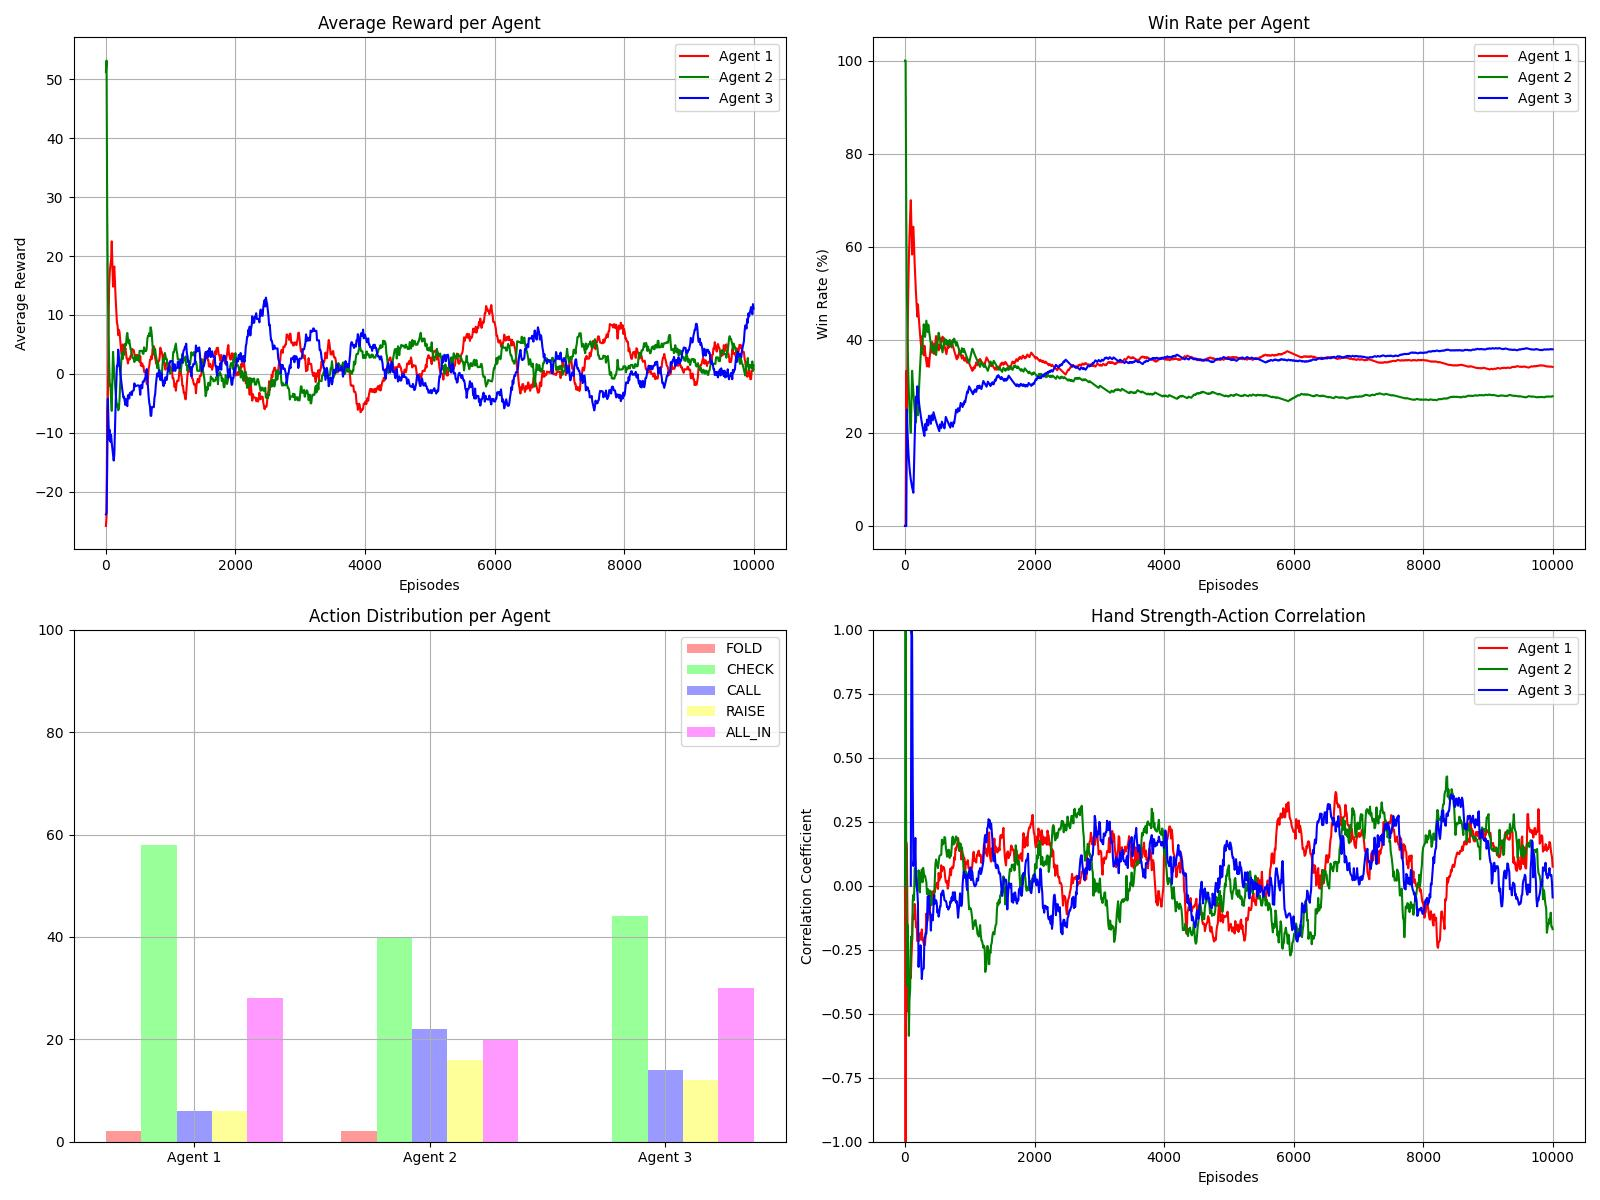
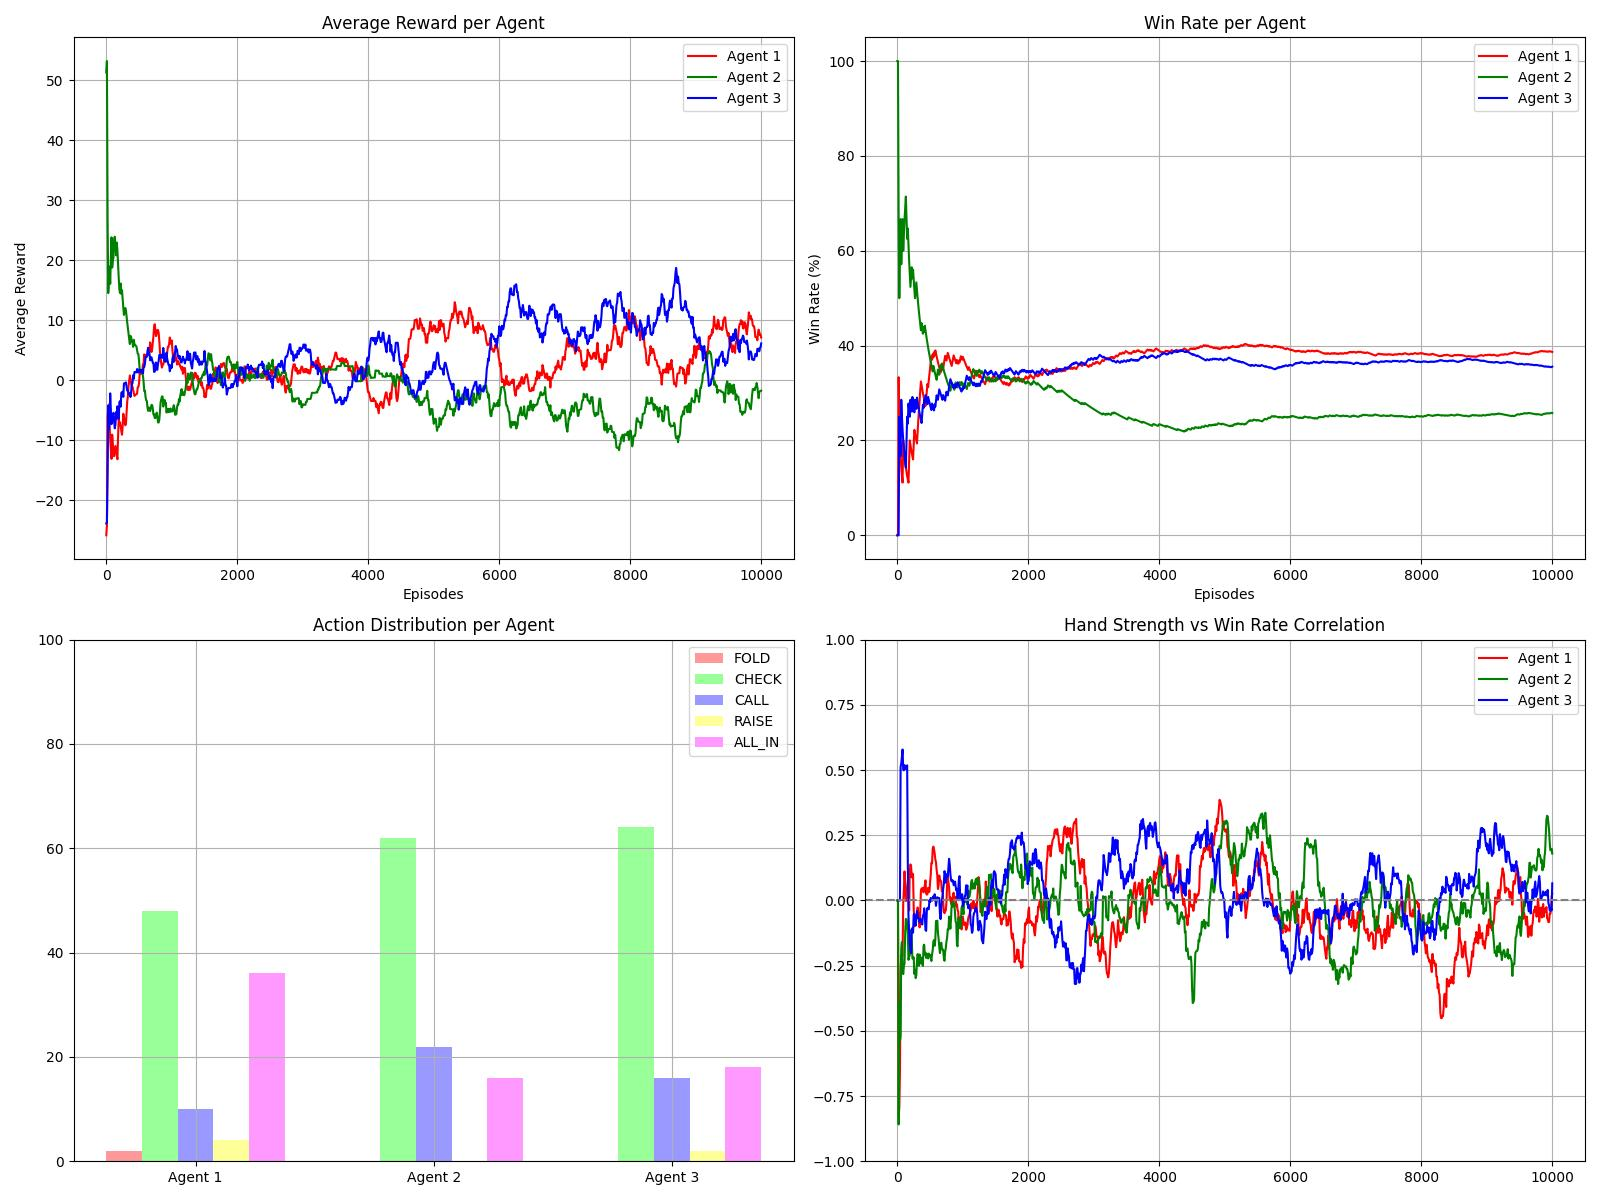
Updated correlation graph, now correlating hand Strength and win Rate, reworked the reward system by dealing with terminal state rewarding

diff --git a/visualization.py b/visualization.py
@@ -14,7 +14,7 @@ class TrainingVisualizer:
         self.ax1.set_title('Average Reward per Agent')
         self.ax2.set_title('Win Rate per Agent')
         self.ax3.set_title('Action Distribution per Agent')
-        self.ax4.set_title('Hand Strength Analysis')
+        self.ax4.set_title('Hand Strength vs Win Rate Correlation')
         
         # Initialize data
         self.window_size = 50
@@ -23,7 +23,7 @@ class TrainingVisualizer:
         self.action_data = {f"Agent {i+1}": {
             'FOLD': [], 'CHECK': [], 'CALL': [], 'RAISE': [], 'ALL_IN': []
         } for i in range(3)}
-        self.hand_strength_data = {f"Agent {i+1}": {'strength': [], 'action': []} for i in range(3)}
+        self.hand_strength_data = {f"Agent {i+1}": {'strength': [], 'win': []} for i in range(3)}
         self.episodes = []
         
         # Colors for agents and actions
@@ -43,8 +43,8 @@ class TrainingVisualizer:
         self.ax2.set_ylabel('Win Rate (%)')
         self.ax3.set_xlabel('Episodes')
         self.ax3.set_ylabel('Action Distribution (%)')
-        self.ax4.set_xlabel('Hand Strength')
-        self.ax4.set_ylabel('Action Tendency')
+        self.ax4.set_xlabel('Episodes')
+        self.ax4.set_ylabel('Win Rate Correlation')
         
         # Add grids
         for ax in [self.ax1, self.ax2, self.ax3, self.ax4]:
@@ -74,10 +74,10 @@ class TrainingVisualizer:
         for act in self.action_data[agent_name].keys():
             self.action_data[agent_name][act].append(1 if act == action_name else 0)
 
-    def update_hand_strength_data(self, agent_name, strength, action):
-        """Update hand strength and action data"""
+    def update_hand_strength_data(self, agent_name, strength, win_status):
+        """Update hand strength and win data"""
         self.hand_strength_data[agent_name]['strength'].append(strength)
-        self.hand_strength_data[agent_name]['action'].append(action.name)
+        self.hand_strength_data[agent_name]['win'].append(1 if win_status else 0)
 
     def plot_action_distribution(self):
         """Plot action distribution for each agent"""
@@ -112,66 +112,66 @@ class TrainingVisualizer:
         self.ax3.set_ylim(0, 100)
 
     def plot_hand_strength_analysis(self):
-        """Plot hand strength correlation with actions"""
+        """Plot hand strength correlation with wins"""
         self.ax4.clear()
-        action_mapping = {
-            'FOLD': 0,
-            'CHECK': 1,
-            'CALL': 2,
-            'RAISE': 3,
-            'ALL_IN': 4
-        }
+        self.ax4.set_title('Hand Strength vs Win Rate Correlation')
         
-        # Use the same colors as defined in __init__
         for i, (agent_name, color) in enumerate(zip(self.hand_strength_data.keys(), self.colors)):
             strengths = self.hand_strength_data[agent_name]['strength']
-            actions = [action_mapping[a] for a in self.hand_strength_data[agent_name]['action']]
+            wins = self.hand_strength_data[agent_name]['win']
             
-            if len(strengths) > 0 and len(actions) > 0:
-                # Calculate rolling correlation with error handling
+            if len(strengths) > 0 and len(wins) > 0:
                 correlations = []
                 for j in range(len(strengths)):
                     start = max(0, j - self.window_size)
                     end = j + 1
                     
-                    # Ensure we have enough data points and variance
                     window_strengths = strengths[start:end]
-                    window_actions = actions[start:end]
+                    window_wins = wins[start:end]
                     
-                    if len(window_strengths) > 1 and len(set(window_strengths)) > 1 and len(set(window_actions)) > 1:
+                    # Check if we have enough variance in both arrays
+                    if (len(window_strengths) > 1 and 
+                        len(set(window_strengths)) > 1 and 
+                        len(set(window_wins)) > 1):
                         try:
-                            corr = np.corrcoef(window_strengths, window_actions)[0,1]
-                            correlations.append(corr if not np.isnan(corr) else 0)
+                            # Suppress numpy warnings during correlation calculation
+                            with np.errstate(divide='ignore', invalid='ignore'):
+                                corr = np.corrcoef(window_strengths, window_wins)[0,1]
+                            # Check if correlation is valid
+                            if corr is not None and not np.isnan(corr):
+                                correlations.append(corr)
+                            else:
+                                correlations.append(0)
                         except Exception:
                             correlations.append(0)
                     else:
                         correlations.append(0)
                 
-                # Only plot if we have valid correlations
                 if correlations:
-                    # Use consistent color from self.colors
                     self.ax4.plot(self.episodes[-len(correlations):], correlations, 
-                                label=agent_name, color=self.colors[i])
+                                label=agent_name, color=color)
         
-        self.ax4.set_title('Hand Strength-Action Correlation')
-        self.ax4.set_xlabel('Episodes')
-        self.ax4.set_ylabel('Correlation Coefficient')
         self.ax4.legend()
         self.ax4.grid(True)
         self.ax4.set_ylim(-1, 1)
+        self.ax4.axhline(0, color='gray', linestyle='--')
 
     def update_plots(self, episode, rewards, wins, actions, hand_strengths):
         """Update all plots with new data"""
-        # Update data
         self.episodes.append(episode)
         
         # Update rewards and wins
         for i, agent_name in enumerate(self.rewards_data.keys()):
             self.rewards_data[agent_name].append(rewards[i])
             self.wins_data[agent_name].append(wins[i])
+            
+            # Update action distribution if actions are provided
             if actions and i < len(actions):
                 self.update_action_distribution(agent_name, actions[i])
-                self.update_hand_strength_data(agent_name, hand_strengths[i], actions[i])
+            
+            # Update hand strength data with win status
+            if hand_strengths and i < len(hand_strengths):
+                self.update_hand_strength_data(agent_name, hand_strengths[i], wins[i])
             
             # Calculate moving average of rewards
             if len(self.rewards_data[agent_name]) >= self.window_size:

diff --git a/poker_train.py b/poker_train.py
@@ -23,8 +23,9 @@ EPS_DECAY = 0.9998
 STATE_SIZE = 32
 RENDERING = False
 FPS = 1
-WINDOW_SIZE = 50  # Pour la moyenne mobile
-PLOT_UPDATE_INTERVAL = 10  # Mettre à jour les graphiques tous les X épisodes
+
+WINDOW_SIZE = 50  
+PLOT_UPDATE_INTERVAL = 10  
 SAVE_INTERVAL = 500 # Sauvegarder les graphiques tous les X épisodes
 
 def configure_git():
@@ -72,83 +73,82 @@ def get_state_size():
 
 # Function to run a single episode
 def run_episode(agent_list, epsilon, rendering, episode, render_every):
-    """
-    Run a single episode of the poker game.
-    
-    Returns:
-        tuple: (reward_list, winning_list, actions_taken) containing final rewards, win status, and actions taken
-    """
+    # Initialiser l'environnement de jeu
     env = PokerGame()
     env.reset()
     
-    # Track cumulative rewards for each player
+    # Initialiser les récompenses cumulatives pour chaque joueur
     cumulative_rewards = [0] * len(agent_list)
-    # Store initial stacks for reward calculation
+    # Stocker les stacks initiaux pour calculer les changements à la fin
     initial_stacks = [player.stack for player in env.players]
-    
-    # Ajouter une liste pour stocker les actions
+    # Listes pour stocker les actions prises et les forces des mains
     actions_taken = []
-    hand_strengths = []  # Track hand strengths for each action
+    hand_strengths = [] 
 
-    # Continue until the hand is over
+    # Boucle principale du jeu jusqu'à ce que la phase de showdown soit atteinte
     while not env.current_phase == GamePhase.SHOWDOWN:
+        # Récupérer le joueur actuel et l'agent correspondant
         current_player = env.players[env.current_player_idx]
         current_agent = agent_list[env.current_player_idx]
         
-        # Get state and valid actions
+        # Obtenir l'état actuel du jeu et les actions valides
         state = env.get_state()
         valid_actions = [a for a in PlayerAction if env.action_buttons[a].enabled]
 
-        # Get current hand strength
+        # Calculer la force de la main actuelle
         strength = env._evaluate_hand_strength(current_player)
         hand_strengths.append(strength)
         
-        # Get action from agent and handle penalty reward
-        action, penalty_reward = current_agent.get_action(state, epsilon, valid_actions)
+        # Obtenir l'action choisie par l'agent et la pénalité associée (si l'agent choisit une action invalide, action_chosen est choisie aléatoirement parmi les actions valides et recevra une pénalité)
+        action_chosen, penalty_reward = current_agent.get_action(state, epsilon, valid_actions)
         cumulative_rewards[env.current_player_idx] += penalty_reward
         
-        # Take action and get next state and reward
-        next_state, reward = env.step(action)
-        
-        # Update cumulative rewards
+        # Exécuter l'action et obtenir le nouvel état et la récompense
+        next_state, reward = env.step(action_chosen)
         cumulative_rewards[env.current_player_idx] += reward
         
-        # Store experience
-        current_agent.remember(state, action, reward + penalty_reward, next_state, 
+        # Stocker l'expérience dans la mémoire de l'agent
+        current_agent.remember(state, action_chosen, reward + penalty_reward, next_state, 
                              env.current_phase == GamePhase.SHOWDOWN)
+        actions_taken.append(action_chosen)
         
-        # Stocker l'action
-        actions_taken.append(action)
-        
-        # If all players have folded except one, end the episode
+        # Vérifier si un seul joueur est actif (les autres ont abandonné)
         active_players = sum(1 for p in env.players if p.is_active)
         if active_players == 1:
             break
             
-        # Handle rendering if enabled
+        # Gérer l'affichage si le rendering est activé
         if rendering and (episode % render_every == 0):
-            for event in pygame.event.get():
-                if event.type == pygame.QUIT:
-                    pygame.quit()
-                    return cumulative_rewards, [0] * len(agent_list), []
             env._draw()
             pygame.display.flip()
             env.clock.tick(FPS)
     
-    # Calculate final rewards
+    # Calculer les récompenses finales en fonction des changements de stack et du statut de victoire
     final_stacks = [player.stack for player in env.players]
     stack_changes = [(final - initial) / env.big_blind for final, initial in zip(final_stacks, initial_stacks)]
+    
+    # Déterminer les gagnants (joueurs avec le stack le plus élevé)
+    max_stack = max(final_stacks)
+    winning_list = [1 if stack == max_stack else 0 for stack in final_stacks]
     final_rewards = [r + s for r, s in zip(cumulative_rewards, stack_changes)]
     
-    # Calculate winners (players with highest reward are winners)
-    max_reward = max(final_rewards)
-    winning_list = [1 if reward == max_reward else 0 for reward in final_rewards]
+    # Ajouter l'état terminal et la récompense finale pour chaque joueur
+    for i, agent in enumerate(agent_list):
+        env.current_player_idx = i
+        terminal_state = env.get_state()
+        is_winner = winning_list[i]
+        # Attribuer une récompense finale basée sur la victoire/défaite et le changement de stack
+        final_reward = 5.0 if is_winner else -2.5
+        final_reward += stack_changes[i]  # Inclure l'impact du changement de stack
+        agent.remember(terminal_state, None, final_reward, None, True)
+
+    print("final_rewards: ", final_rewards)
     
-    # Train all agents
+    # Entraîner tous les agents avec les expériences mises à jour
     for agent in agent_list:
         agent.train_model()
     
-    # Show final state if rendering
+    # Afficher l'état final si le rendu est activé
     if rendering and (episode % render_every == 0):
         env._draw()
         pygame.display.flip()
@@ -167,6 +167,7 @@ def main_training_loop(agent_list, episodes, rendering, render_every):
     
     try:
         for episode in range(episodes):
+            # Decay epsilon
             epsilon = np.clip(0.5 * EPS_DECAY ** episode, 0.01, 0.5)
             
             # Run episode and get results

diff --git a/poker_agents.py b/poker_agents.py
@@ -50,7 +50,7 @@ class PokerAgent:
             1: PlayerAction.CALL,
             2: PlayerAction.FOLD,
             3: PlayerAction.RAISE,
-            4: PlayerAction.ALL_IN
+            4: PlayerAction.ALL_IN,
         }
         
         # Create reverse map for masking
@@ -91,9 +91,10 @@ class PokerAgent:
             PlayerAction.CALL: 1,
             PlayerAction.FOLD: 2,
             PlayerAction.RAISE: 3,
-            PlayerAction.ALL_IN: 4
+            PlayerAction.ALL_IN: 4,
+            None: 0 # Special key for terminal state (cannot be 5 because of index error with tensors)
         }
-        numerical_action = action_map[action]
+        numerical_action = action_map[action] if action is not None else action_map[None]
         self.memory.append((state, numerical_action, reward, next_state, done))
 
     def train_model(self):
@@ -105,9 +106,14 @@ class PokerAgent:
 
         states = torch.FloatTensor(states).to(device)
         actions = torch.LongTensor(actions).to(device)
-        next_states = torch.FloatTensor(next_states).to(device)
         rewards = torch.FloatTensor(rewards).to(device)
         dones = torch.FloatTensor(dones).to(device)
+
+        # Handle terminal states (next_states is None)
+        next_states_tensor = torch.zeros_like(states).to(device)  # Placeholder for terminal states
+        for i, next_state in enumerate(next_states):
+            if next_state is not None:
+                next_states_tensor[i] = torch.FloatTensor(next_state).to(device)
 
         # Get current policy and value predictions
         action_probs, state_values = self.model(states)
@@ -115,7 +121,7 @@ class PokerAgent:
 
         # Compute next state values
         with torch.no_grad():
-            _, next_state_values = self.model(next_states)
+            _, next_state_values = self.model(next_states_tensor)
             next_state_values = next_state_values.squeeze(-1)
 
         # Compute TD targets
